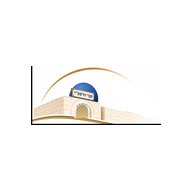
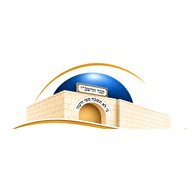
לוגו נייחא חדש, והפקת הסכם להדפסה מכרטיס ההסכם
Claude-Session: https://claude.ai/code/session_01KaZtAiNr4PLua2vKdjAdVr

Changed region(s): [[0.0625, 0.3125, 0.9062, 0.6875], [0.7188, 0.4062, 0.75, 0.4375]]

diff --git a/contract-text.js b/contract-text.js
@@ -1,0 +1,1 @@
+window.CONTRACT_LINES=["הסכם למתן שירותי שיווק וניהול הזמנות", "", "שנערך ונחתם ביום ______ בחודש __________ שנת ________", "", "", "בין:", "שם / חברה: __________________________________________", "ח.פ. / ת.ז.: __________________________________________", "כתובת: ______________________________________________", "טלפון: _______________________________________________", "(להלן: \"בעל הנכס\")", "מצד אחד;", "", "לבין:", "שם / חברה: __________________________________________", "ח.פ. / ת.ז.: __________________________________________", "כתובת: ______________________________________________", "טלפון: _______________________________________________", "(להלן: \"מנהל ההזמנות\")", "מצד שני;", "", "הואיל ובעל הנכס הינו בעל הזכויות ו/או בעל הרשאה כדין להשכיר את הנכס המתואר בנספח א' להסכם זה;", "והואיל ומנהל ההזמנות עוסק בשיווק נכסים, פרסום, איתור לקוחות, תיאום וניהול הזמנות לאירוח;", "והואיל והצדדים מעוניינים להסדיר את תנאי שיתוף הפעולה ביניהם, הכול כמפורט בהסכם זה להלן;", "לפיכך הוצהר, הוסכם והותנה בין הצדדים כדלקמן:", "", "1. מבוא ונספחים", "1.1. המבוא להסכם זה ונספחיו מהווים חלק בלתי נפרד ממנו.", "1.2. כותרות הסעיפים נועדו לנוחות בלבד ולא ישמשו לצורך פרשנות ההסכם.", "1.3. פרטי הנכס והתנאים המסחריים הספציפיים להתקשרות יפורטו בנספח א' להסכם זה.", "2. מהות ההתקשרות והשירותים", "2.1. בעל הנכס מתקשר עם מנהל ההזמנות לצורך שיווק הנכס, פרסומו, איתור לקוחות פוטנציאליים, קבלת פניות, תיאום הזמנות וטיפול בתהליך ההזמנה.", "2.2. מנהל ההזמנות יהיה רשאי לפרסם את הנכס באמצעי פרסום שונים, לרבות אתרי אינטרנט, רשתות חברתיות, רשימות תפוצה, פרסום ממומן, שיתופי פעולה וכל אמצעי שיווקי אחר לפי שיקול דעתו.", "2.3. מוסכם כי השיווק יהיה מקביל ולא בלעדי. בעל הנכס יהיה רשאי לפרסם את הנכס בעצמו, לקבל פניות ישירות מלקוחות ולבצע הזמנות באופן עצמאי, ובלבד שלא יסתייע בגורם שיווקי או מתווך אחר, כמפורט בסעיף 3 להלן.", "2.4. מנהל ההזמנות יהיה זכאי לעמלה רק בגין הזמנות של לקוחות שהגיעו באמצעות פעילות השיווק, הפרסום או ההפניה שלו, בהתאם להוראות הסכם זה.", "3. התחייבות לאי התקשרות עם משווקים אחרים", "3.1. במהלך תקופת ההסכם מתחייב בעל הנכס שלא להתקשר, במישרין או בעקיפין, עם משווק אחר, מתווך, סוכן הזמנות, משרד פרסום או כל גורם מסחרי אחר לצורך שיווק הנכס, פרסומו או הבאת לקוחות אליו.", "3.2. אין באמור כדי למנוע מבעל הנכס לשווק את הנכס בעצמו, לפרסם אותו באופן עצמאי או לקבל הזמנות ישירות מלקוחות.", "3.3. הפר בעל הנכס התחייבות זו, ישלם למנהל ההזמנות פיצוי מוסכם בסך של 5,000 ₪, ללא צורך בהוכחת נזק, וזאת בכפוף להוראות הדין ולסמכות בית המשפט להפחית פיצוי מוסכם ככל שימצא לנכון.", "3.4. הפיצוי המוסכם בסעיף זה חל אך ורק על הפרת ההתחייבות שלא להתקשר עם משווק אחר. אין בו כדי להטיל קנס על בעל הנכס בגין ביטול הזמנה, אשר יוסדר בהתאם לסעיף 9 להלן.", "3.5. אין באמור בסעיף זה כדי לגרוע מזכות מנהל ההזמנות לקבל עמלה בגין הזמנות של לקוחות שהגיעו באמצעותו, בהתאם להסכם זה.", "4. מערכת ההזמנות, זמינות ומחירים", "4.1. בעל הנכס מתחייב לעדכן באופן שוטף ומדויק את מערכת ההזמנות הממוחשבת בכל הנוגע לזמינות הנכס, מועדים תפוסים, הזמנות שבוצעו באופן עצמאי, חסימת תאריכים וכל שינוי אחר הרלוונטי לאפשרות ביצוע הזמנה.", "4.2. ככל שבעל הנכס מנהל יומן או לוח שנה נפרד, עליו לדאוג לסנכרון שוטף ומלא בינו לבין מערכת ההזמנות, ככל שהדבר אפשרי מבחינה טכנית.", "4.3. בעל הנכס מתחייב לעדכן ללא דיחוי כל הזמנה שבוצעה באופן עצמאי, כדי למנוע כפל הזמנות או התחייבות לאירוח במועד שבו הנכס אינו פנוי.", "4.4. בעל הנכס יזין במערכת מחירון עדכני ומלא, לרבות מחירים לפי עונות, חגים, חופשות, סופי שבוע ומועדים מיוחדים, וכן כל מגבלה או תנאי מיוחדים להזמנה.", "4.5. מחיר שלא עודכן במערכת ייחשב למחיר מאושר ומחייב. מנהל ההזמנות יהיה רשאי לאשר ולבצע הזמנה לפי המחיר המופיע במערכת, ללא צורך בקבלת אישור נוסף מבעל הנכס וללא מתן הודעה מוקדמת אליו.", "4.6. בעל הנכס מתחייב לכבד הזמנה שאושרה לפי המחיר והתנאים שהופיעו במערכת במועד ביצועה, ולא יהיה רשאי לדרוש תוספת תשלום בשל טענה שהמחיר לא עודכן או שהייתה כוונה לשנותו.", "4.7. מגבלה, תוספת מחיר או תנאי מיוחד שלא הוזנו במערכת מראש לא יחייבו את מנהל ההזמנות ביחס להזמנה שכבר אושרה, אלא אם הסכים לכך במפורש.", "4.8. בעל הנכס יישא באחריות לנזק או להוצאה שייגרמו עקב אי-עדכון המערכת, אי-סנכרון או מסירת מידע שגוי, ככל שהדבר נובע ממעשה או מחדל שבאחריותו.", "5. פרטי קשר וחיבור למרכזיית הטלפונים", "5.1. בעל הנכס ימסור למנהל ההזמנות מספר טלפון פעיל ועדכני, אשר יהיה ניתן להעברה ללקוחות לצורך יצירת קשר ישיר עם בעל הנכס בנוגע לנכס ולהזמנה.", "5.2. בעל הנכס מאשר למנהל ההזמנות להעביר ללקוחות את מספר הטלפון שמסר, לצורך טיפול בפניות הקשורות לנכס.", "5.3. בעל הנכס מתחייב להיות זמין במידה סבירה למענה לפניות לקוחות ולספק מידע נכון ומדויק בנוגע לנכס, לזמינותו ולתנאי האירוח.", "5.4. בעל הנכס מסכים לחבר את מספר הטלפון שמסר למערכת מרכזיית הטלפונים של מנהל ההזמנות, באופן שיאפשר ניתוב שיחות של לקוחות ישירות אליו, בהתאם להגדרות המערכת.", "5.5. בעל הנכס ישתף פעולה עם הליך החיבור למרכזייה ויעדכן את מנהל ההזמנות על כל שינוי במספר הטלפון או בפרטי ההתקשרות.", "5.6. עלויות מיוחדות, ככל שיהיו, הכרוכות בחיבור למרכזייה או בשימוש בה, יוסכמו מראש ובכתב בין הצדדים.", "6. התמורה למנהל ההזמנות", "6.1. בגין כל הזמנה של לקוח שהגיע באמצעות פעילות השיווק של מנהל ההזמנות, יהיה מנהל ההזמנות זכאי לעמלה בשיעור של  10% מסכום ההזמנה הכולל, כולל מע\"מ.", "6.2. העמלה תחושב מסכום ההזמנה שאושר מול הלקוח, לרבות הארכות או תוספות שאושרו כחלק מאותה הזמנה.", "6.3. הזמנה תיחשב כהזמנה שהגיעה באמצעות מנהל ההזמנות גם כאשר הלקוח פנה תחילה בעקבות פרסום או הפניה של מנהל ההזמנות, ובהמשך השלים את ההזמנה ישירות מול בעל הנכס.", "6.4. בעל הנכס מתחייב שלא לעקוף את מנהל ההזמנות ולא לבצע התקשרות ישירה עם לקוח שהופנה אליו על ידי מנהל ההזמנות במטרה להימנע מתשלום העמלה.", "6.5. בעל הנכס ימסור למנהל ההזמנות מידע סביר הדרוש לצורך זיהוי הזמנות שמקורן בפעילותו וחישוב העמלה המגיעה לו.", "7. אישור הזמנה ואופן התשלום", "7.1. עם אישור הזמנה שמקורה בפעילות מנהל ההזמנות, ישלם הלקוח מקדמה בשיעור של 10% מסכום ההזמנה ישירות למנהל ההזמנות או לחברה מטעמו, בהתאם להנחיות התשלום שיימסרו ללקוח.", "7.2. יתרת התשלום, בשיעור של 90% מסכום ההזמנה, תשולם ישירות לבעל הנכס, בהתאם למועדים ולתנאים שיימסרו ללקוח.", "7.3. הצדדים מסכימים כי המקדמה בשיעור 10% נועדה, ככלל, לשמש לתשלום עמלת מנהל ההזמנות בגין ההזמנה.", "7.4. בעל הנכס מתחייב לכבד כל הזמנה שאושרה בהתאם להסכם זה, למערכת ההזמנות ולתנאים שנמסרו ללקוח.", "7.5. מנהל ההזמנות יעביר לבעל הנכס את פרטי ההזמנה הרלוונטיים, לרבות מועדי האירוח, פרטי ההתקשרות עם הלקוח וסכום ההזמנה, ככל שהמידע מצוי בידיו ונדרש לצורך ביצוע ההזמנה.", "7.6. כל צד יהיה אחראי להנפקת מסמכים חשבונאיים ולקיום חובותיו לפי דין בגין הכספים שהוא מקבל, בהתאם למהות ההתקשרות ולמעמדו החוקי.", "8. ביטול הזמנה על ידי הלקוח", "8.1. מדיניות הביטולים שלהלן תחול בכפוף לכל זכות ביטול המוקנית ללקוח לפי דין. אין בהסכם זה כדי לגרוע מזכות קוגנטית של לקוח או להתנות עליה.", "8.2. במקרה שבו הלקוח מבטל את ההזמנה יותר משבעה ימים שאינם ימי מנוחה לפני מועד תחילת האירוח, לא ייגבה ממנו דמי ביטול בהתאם למדיניות הביטולים המסחרית של הצדדים, והמקדמה ששולמה תוחזר במלואה, בכפוף להוראות הדין.", "8.3. במקרה שבו הלקוח מבטל את ההזמנה בתוך שבעה ימים שאינם ימי מנוחה לפני מועד תחילת האירוח, וכאשר הלקוח אינו זכאי להחזר לפי דין ובהתאם לתנאי הביטול שנמסרו לו ואושרו מראש, ניתן יהיה להשאיר את המקדמה ששולמה, בשיעור של 10% מסכום ההזמנה המקורי, כדמי ביטול.", "8.4. במקרה שבו ניתן להשאיר את המקדמה כדמי ביטול בהתאם לדין ולתנאי ההזמנה, יחולק הסכום כך:", "5% מסכום ההזמנה המקורי יועברו לבעל הנכס.", "5% מסכום ההזמנה המקורי יישארו בידי מנהל ההזמנות.", "8.5. מובהר כי החלוקה הפנימית בין הצדדים תחול רק ביחס לסכומים שניתן לגבות או להותיר כדין. ככל שהדין מגביל את דמי הביטול או מחייב החזר מלא או חלקי ללקוח, יבוצע ההחזר בהתאם לדין, והצדדים לא יהיו רשאים לגבות מהלקוח סכום העולה על המותר.", "8.6. מנהל ההזמנות ובעל הנכס יפעלו בהתאם למדיניות הביטולים שנמסרה ללקוח לפני אישור ההזמנה, ובכפוף להוראות חוק הגנת הצרכן וכל דין רלוונטי.", "9. ביטול הזמנה על ידי בעל הנכס", "9.1. בעל הנכס מתחייב לכבד הזמנה שאושרה ולא לבטלה באופן חד-צדדי, למעט בנסיבות חריגות המצדיקות זאת ובהתאם להוראות הדין.", "9.2. ביטל בעל הנכס הזמנה שאושרה עקב נסיבות המצויות באחריותו, יהיה עליו לשאת בנזקים ובהוצאות שייגרמו עקב הביטול, לרבות החזרים ללקוח, הוצאות טיפול, הוצאות סבירות למציאת פתרון חלופי ואובדן העמלה הצפויה למנהל ההזמנות בגין אותה הזמנה.", "9.3. בעל הנכס ישפה את מנהל ההזמנות בגין כל הוצאה, תשלום או חיוב שיוטלו עליו עקב ביטול כאמור, ככל שנגרמו בשל מעשה או מחדל שבאחריות בעל הנכס.", "9.4. אין באמור בסעיף זה כדי להטיל על בעל הנכס פיצוי מוסכם בסך 5,000 ₪. הפיצוי המוסכם שבסעיף 3 חל אך ורק על הפרת ההתחייבות שלא להתקשר עם משווק אחר.", "9.5. במקרה של נסיבות שאינן בשליטת בעל הנכס ושאינן נובעות ממעשה או מחדל שלו, יפעלו הצדדים בתום לב למציאת פתרון הוגן, בכפוף להוראות הדין.", "10. התחייבויות ואחריות בעל הנכס", "10.1. בעל הנכס מצהיר כי הוא בעל הזכויות בנכס או בעל הרשאה חוקית להשכירו ולהתקשר בהסכם זה.", "10.2. בעל הנכס אחראי באופן מלא למצבו הפיזי והתחזוקתי של הנכס, לניקיונו, לתקינות המתקנים והציוד שבו ולבטיחותו.", "10.3. בעל הנכס מתחייב כי הנכס יהיה מוכן לאירוח במועדים שאושרו, בהתאם לתיאורו ולפרטים שפורסמו ללקוחות.", "10.4. בעל הנכס אחראי לקבלת כל רישיון, אישור או היתר הנדרשים לפי דין לצורך הפעלת הנכס והשכרתו.", "10.5. בעל הנכס מתחייב למסור למנהל ההזמנות מידע מלא, נכון ומדויק על הנכס, לרבות מספר חדרים, מיטות, מתקנים, שירותים, מגבלות, מחירים ותנאי האירוח.", "10.6. בעל הנכס יהיה אחראי לטיפול בתקלות, לתחזוקה ולמענה לבעיות המתעוררות במהלך שהות הלקוחות, אלא אם הוסכם אחרת בכתב.", "11. התחייבויות מנהל ההזמנות", "11.1. מנהל ההזמנות יפעל במאמץ סביר לשיווק הנכס, לפרסומו ולאיתור לקוחות פוטנציאליים.", "11.2. מנהל ההזמנות ינהל את הפניות וההזמנות שהגיעו באמצעות פעילותו, ויעביר לבעל הנכס את המידע הדרוש לצורך ביצוען.", "11.3. מנהל ההזמנות יעדכן את בעל הנכס בפרטי הזמנות שאושרו באמצעותו, לרבות פרטי האירוח והתשלומים הרלוונטיים.", "11.4. מובהר כי מנהל ההזמנות אינו מתחייב למספר מסוים של פניות, הזמנות או הכנסות, וכי השירות ניתן על בסיס מאמצי שיווק וניהול סבירים.", "12. אחריות כלפי לקוחות והיחסים בין הצדדים", "12.1. בעל הנכס הוא האחראי לאספקת שירותי האירוח בפועל, למסירת הנכס ללקוח ולמילוי התחייבויותיו כלפי הלקוח בנוגע למצב הנכס ולתנאי האירוח.", "12.2. מנהל ההזמנות מספק שירותי שיווק וניהול הזמנות ואינו אחראי לליקויים פיזיים בנכס, לתחזוקתו או לאספקת שירותי האירוח בפועל, ככל שאינם נובעים ממעשה או מחדל שבאחריותו.", "12.3. אין בהסכם זה כדי ליצור יחסי עובד-מעביד, שותפות, מיזם משותף או יחסי שליחות כלליים בין הצדדים, למעט ההרשאות המפורשות שניתנו למנהל ההזמנות בהסכם זה.", "12.4. כל צד יישא באחריות למעשיו, להתחייבויותיו ולחובותיו לפי דין.", "13. תקופת ההסכם וסיומו", "13.1. הסכם זה ייכנס לתוקף ביום חתימתו ויהיה בתוקף למשך ______ חודשים, עד ליום __________.", "13.2. הארכת ההסכם תיעשה בהסכמה בכתב בין הצדדים.", "13.3. כל צד יהיה רשאי להביא את ההסכם לסיומו בהודעה מוקדמת בכתב של 30 ימים לצד השני.", "13.4. סיום ההסכם לא יגרע מזכות מנהל ההזמנות לקבלת עמלה בגין הזמנות שאושרו במהלך תקופת ההסכם, אף אם מועד האירוח בפועל חל לאחר סיום ההסכם.", "13.5. לאחר סיום ההסכם לא יהיה מנהל ההזמנות זכאי לעמלה בגין הזמנות חדשות שיבוצעו לאחר מועד הסיום, לרבות הזמנות חוזרות של לקוחות שהגיעו בעבר באמצעותו, אלא אם הוסכם אחרת בכתב.", "13.6. סיום ההסכם לא יפטור מי מהצדדים מהתחייבויות או מחובות שנוצרו לפני מועד סיומו.", "14. סודיות ושמירה על מידע", "14.1. הצדדים מתחייבים לשמור בסודיות מידע עסקי, מסחרי ואישי שהגיע לידיהם במסגרת ההתקשרות, ולא להעבירו לצד שלישי אלא לצורך ביצוע ההסכם או כאשר קיימת חובה לעשות כן לפי דין.", "14.2. הצדדים יעשו שימוש בפרטי לקוחות ובמידע אישי רק לצורך טיפול בהזמנות וביצוע ההתקשרות, ובהתאם להוראות הדין.", "14.3. התחייבויות סעיף זה ימשיכו לחול גם לאחר סיום ההסכם.", "15. הוראות כלליות", "15.1. כל שינוי, תוספת או ויתור ביחס להסכם זה יהיו תקפים רק אם נערכו בכתב ונחתמו על ידי שני הצדדים.", "15.2. הימנעות של צד מעמידה על זכות מזכויותיו לא תיחשב כוויתור עליה.", "15.3. אם ייקבע כי הוראה מסוימת בהסכם אינה תקפה או אינה אכיפה, לא יהיה בכך כדי לפגוע בתוקפן של יתר הוראות ההסכם, ככל שניתן לקיימן בנפרד.", "15.4. הודעה לפי הסכם זה תימסר בכתב, לרבות באמצעות דואר אלקטרוני או הודעת WhatsApp למספרים ולכתובות שמסרו הצדדים, ותיחשב כאילו התקבלה בהתאם למועד מסירתה בפועל.", "15.5. על הסכם זה יחולו דיני מדינת ישראל.", "15.6. סמכות השיפוט המקומית בכל מחלוקת הנוגעת להסכם זה תהיה לבית המשפט המוסמך במחוז __________, בכפוף לכל הוראת דין מחייבת.", "16. חתימות הצדדים", "הצדדים מאשרים כי קראו את ההסכם, הבינו את תוכנו ואת משמעות התחייבויותיהם, וכי הם חותמים עליו מרצונם החופשי.", "בעל הנכס", "שם מלא: ______________________________", "חתימה: _______________________________", "תאריך: _______________________________", "מנהל ההזמנות", "שם מלא: ______________________________", "חתימה: _______________________________", "תאריך: _______________________________", "", "", "", "", "", "", "", "", "נספח א' – פרטי הנכס והתנאים המסחריים", "נספח זה מהווה חלק בלתי נפרד מהסכם למתן שירותי שיווק וניהול הזמנות.", "1. פרטי הנכס", "כתובת הנכס: __________________________________________", "שם הנכס / כינוי מסחרי: _________________________________", "מספר יחידות אירוח: ____________________________________", "מספר מיטות / מקומות לינה: ______________________________", "תיאור הנכס והמתקנים: __________________________________", "", "2. פרטי התמחור", "מחיר ללילה באמצע שבוע: __________________________ ₪", "מחיר ללילה בסוף שבוע: ___________________________ ₪", "מחיר בחגים ובמועדים מיוחדים: _____________________ ₪", "מחיר לעונות מיוחדות: _____________________________ ₪", "תוספות / שירותים נוספים: __________________________", "הערות ומגבלות להזמנה: ____________________________", "", "3. תנאי ההתקשרות", "עמלת מנהל ההזמנות: 10% כולל מע\"מ מסכום ההזמנה הכולל.", "מקדמה מהלקוח: 10% מסכום ההזמנה, בהתאם להוראות ההסכם והדין.", "יתרת התשלום לבעל הנכס: 90% מסכום ההזמנה, בהתאם לתנאי ההזמנה.", "תקופת ההסכם: ______ חודשים.", "הודעה מוקדמת לסיום ההסכם: 30 ימים.", "4. פרטי קשר", "טלפון בעל הנכס להעברה ללקוחות: _________________________", "טלפון נוסף: __________________________________________", "דוא\"ל: ______________________________________________", "האם נדרש חיבור למרכזיית הטלפונים: כן / לא", "הערות: ______________________________________________", "5. אישור הנספח", "הצדדים מאשרים כי הפרטים והתנאים המפורטים בנספח זה נמסרו ונבדקו על ידם, והם מחייבים כחלק בלתי נפרד מההסכם.", "חתימת בעל הנכס: ____________________ תאריך: __________", "חתימת מנהל ההזמנות: _________________ תאריך: __________"];

diff --git a/contract.html b/contract.html
@@ -1,0 +1,81 @@
+<!doctype html>
+<html lang="he" dir="rtl"><head><meta charset="utf-8"><meta name="viewport" content="width=device-width,initial-scale=1">
+<title>הסכם</title><meta name="robots" content="noindex">
+<style>
+body{margin:0;background:#eef2f3;font:15.5px/1.7 Arial,Heebo,sans-serif;color:#14233a}
+.sheet{max-width:780px;margin:16px auto;background:#fff;border-radius:12px;padding:30px 36px;box-shadow:0 8px 30px rgba(0,0,0,.12)}
+h1{font-size:24px;text-align:center;margin:0 0 14px}h2{font-size:17px;margin:18px 0 4px}p{margin:3px 0}
+.sub{padding-right:20px}.draft{background:#fff3d6;border:1px solid #e0b64a;border-radius:8px;padding:8px 12px;margin-bottom:14px;font-size:14px}
+.btns{max-width:780px;margin:0 auto 20px;text-align:center}button{font:inherit;padding:10px 22px;border-radius:10px;border:0;background:#0d3b66;color:#fff;cursor:pointer}
+.pb{page-break-before:always}#err{text-align:center;padding:60px 20px;color:#a33}
+@media print{body{background:#fff}.sheet{box-shadow:none;margin:0;max-width:none;padding:0}.btns,.draft{display:none}}
+</style></head><body>
+<div id="app"><div id="err">טוען…</div></div>
+<script src="https://cdn.jsdelivr.net/npm/@supabase/supabase-js@2.45.4/dist/umd/supabase.min.js"></script>
+<script src="config.js"></script><script src="contract-text.js"></script>
+<script>
+(function(){
+  var FINAL=false; /* לשנות ל-true רק אחרי שעורך הדין אישר את הנוסח */
+  function esc(s){return String(s==null?"":s).replace(/[&<>"']/g,function(c){return {"&":"&amp;","<":"&lt;",">":"&gt;",'"':"&quot;","'":"&#39;"}[c]})}
+  function d(s){var m=/^(\d{4})-(\d{2})-(\d{2})$/.exec(s||"");return m?m[3]+"/"+m[2]+"/"+m[1]:""}
+  var q=new URLSearchParams(location.search),owner=q.get("o")||"",app=document.getElementById("app");
+  var sb=window.supabase.createClient(MERON_CONFIG.url,MERON_CONFIG.anonKey);
+  function key(o){return "a_"+encodeURIComponent(o).replace(/%/g,"")}
+  function fill(l,v){var m=/^([^:_]+:)\s*_+.*$/.exec(l);return m&&v!=null&&v!==""?m[1]+" "+v:l}
+  sb.auth.getSession().then(function(s){
+    if(!s.data.session){app.innerHTML='<div id="err">צריך להיות מחובר למערכת כדי להפיק הסכם.</div>';return}
+    return Promise.all([
+      sb.from("docs").select("id,data").eq("col","agreements").eq("id",key(owner)),
+      sb.from("docs").select("id,data").eq("col","properties"),
+      sb.from("docs").select("id,data").eq("col","units"),
+      sb.from("docs").select("data").eq("col","settings").eq("id","main")
+    ]).then(function(r){
+      var g=(r[0].data&&r[0].data[0]&&r[0].data[0].data)||null;
+      if(!g){app.innerHTML='<div id="err">אין כרטיס הסכם לבעל הנכס הזה. מלא אותו במסך "הסכמי בעלי נכסים".</div>';return}
+      var hs=(r[1].data||[]).filter(function(h){return h.data.owner===owner}).map(function(h){return Object.assign({id:h.id},h.data)});
+      var us=(r[2].data||[]).map(function(u){return Object.assign({id:u.id},u.data)});
+      var st=(r[3].data&&r[3].data[0]&&r[3].data[0].data)||{};
+      var ownerPhone=(hs[0]&&hs[0].ownerPhone)||"";
+      var units=[];hs.forEach(function(h){var mine=us.filter(function(u){return u.houseId===h.id});(mine.length?mine:[h]).forEach(function(u){units.push({h:h,u:u})})});
+      var beds=units.reduce(function(a,x){return a+(+x.u.beds||0)},0);
+      var months=(g.start&&g.end)?Math.round((new Date(g.end)-new Date(g.start))/2629800000):"";
+      var L=window.CONTRACT_LINES.slice(),seenName=0,seenId=0,seenAddr=0,seenPh=0,out=[];
+      var today=new Date(),hd=today.getDate()+" בחודש "+today.toLocaleDateString("he-IL",{month:"long"})+" שנת "+today.getFullYear();
+      for(var i=0;i<L.length;i++){
+        var l=L[i];
+        if(/^שנערך ונחתם/.test(l)){l="שנערך ונחתם ביום "+hd;}
+        else if(/^שם \/ חברה:/.test(l)){seenName++;l=fill(l,seenName===1?owner:(st.company||"אישור ריאליטי"))}
+        else if(/^ח\.פ\. \/ ת\.ז\.:/.test(l)){seenId++;l=fill(l,seenId===1?g.idno:st.companyId)}
+        else if(/^כתובת:/.test(l)){seenAddr++;l=fill(l,seenAddr===1?g.addr:st.companyAddr)}
+        else if(/^טלפון:/.test(l)){seenPh++;l=fill(l,seenPh===1?ownerPhone:st.companyPhone)}
+        else if(/^13\.1\./.test(l)&&g.start&&g.end){l="13.1. הסכם זה ייכנס לתוקף ביום חתימתו ויהיה בתוקף למשך "+months+" חודשים, עד ליום "+d(g.end)+"."}
+        else if(/^13\.3\./.test(l)&&g.notice){l="13.3. כל צד יהיה רשאי להביא את ההסכם לסיומו בהודעה מוקדמת בכתב של "+g.notice+" ימים לצד השני."}
+        else if(/^6\.1\./.test(l)&&g.pct!=null){l="6.1. בגין כל הזמנה של לקוח שהגיע באמצעות פעילות השיווק של מנהל ההזמנות, יהיה מנהל ההזמנות זכאי לעמלה בשיעור של "+g.pct+"% מסכום ההזמנה הכולל"+(g.incVat===false?", לא כולל מע\"מ.":", כולל מע\"מ.")}
+        else if(/^כתובת הנכס:/.test(l)){l=fill(l,hs.map(function(h){return h.name+(h.area?" ("+h.area+")":"")}).join(", "))}
+        else if(/^שם הנכס/.test(l)){l=fill(l,hs.map(function(h){return h.name}).join(", "))}
+        else if(/^מספר יחידות אירוח:/.test(l)){l=fill(l,units.length)}
+        else if(/^מספר מיטות/.test(l)){l=fill(l,beds)}
+        else if(/^מחיר ללילה באמצע שבוע:/.test(l)){l=units.map(function(x){return (x.u.name||x.h.name)+": ₪"+(x.u.price||0)}).join(" · ")}
+        else if(/^מחיר ללילה בסוף שבוע:/.test(l)){l=units.map(function(x){return (x.u.name||x.h.name)+": חבילת שבת ₪"+(x.u.shabbatPrice||0)}).join(" · ")}
+        else if(/^עמלת מנהל ההזמנות: /.test(l)&&g.pct!=null){l="עמלת מנהל ההזמנות: "+g.pct+"%"+(g.incVat===false?" לא כולל מע\"מ":" כולל מע\"מ")+" מסכום ההזמנה הכולל."}
+        else if(/^תקופת ההסכם: _/.test(l)&&months!==""){l="תקופת ההסכם: "+months+" חודשים."}
+        else if(/^הודעה מוקדמת לסיום ההסכם:/.test(l)&&g.notice){l="הודעה מוקדמת לסיום ההסכם: "+g.notice+" ימים."}
+        else if(/^טלפון בעל הנכס להעברה ללקוחות:/.test(l)){l=fill(l,ownerPhone)}
+        else if(/^דוא"ל:/.test(l)){l=fill(l,g.email)}
+        else if(/^האם נדרש חיבור למרכזיית/.test(l)){l="האם נדרש חיבור למרכזיית הטלפונים: "+(g.pbx?"כן":"לא")}
+        out.push(l);
+      }
+      var html="";
+      out.forEach(function(l){
+        if(!l){return}
+        if(/^נספח א'/.test(l)){html+='<h1 class="pb">'+esc(l)+'</h1>';return}
+        if(l==="הסכם למתן שירותי שיווק וניהול הזמנות"){html+='<h1>'+esc(l)+'</h1>';return}
+        if(/^\d+\.\s/.test(l)){html+='<h2>'+esc(l)+'</h2>';return}
+        html+='<p'+(/^\d+\.\d+\./.test(l)?' class="sub"':'')+'>'+esc(l)+'</p>';
+      });
+      app.innerHTML=(FINAL?'':'<div class="sheet" style="padding:0;box-shadow:none;background:none;margin-bottom:0"><div class="draft">טיוטה: הנוסח טרם אושר על ידי עורך דין. ההדפסה לא כוללת הודעה זו.</div></div>')+'<div class="sheet">'+html+'</div><div class="btns"><button onclick="window.print()">הדפס או שמור כ-PDF</button></div>';
+      document.title="הסכם - "+owner;
+    });
+  });
+})();
+</script></body></html>

diff --git a/contract.js b/contract.js
@@ -95,7 +95,7 @@ function agrDraw(){
       +'<label style="flex-direction:row;align-items:center;gap:8px"><input type="checkbox" style="width:auto" id="ag_px_'+esc(key(n))+'"'+(g.pbx?' checked':'')+'> אישר חיבור הטלפון למרכזייה</label>'
       +'<label style="flex-direction:row;align-items:center;gap:8px"><input type="checkbox" style="width:auto" id="ag_sg_'+esc(key(n))+'"'+(g.signed?' checked':'')+'> החוזה נחתם</label>'
       +'<label>הערות<input id="ag_nz_'+esc(key(n))+'" value="'+esc(g.notes||"")+'"></label>'
-      +'<div class="row"><button class="btn primary sm" data-act="agSave" data-id="'+esc(n)+'">שמור</button><button class="btn sm" data-act="agApply" data-id="'+esc(n)+'">החל את אחוז העמלה על כל הבתים שלו</button></div></div>';
+      +'<div class="row"><button class="btn primary sm" data-act="agSave" data-id="'+esc(n)+'">שמור</button><a class="btn sm" target="_blank" rel="noopener" href="contract.html?o='+encodeURIComponent(n)+'">הפק הסכם להדפסה</a><button class="btn sm" data-act="agApply" data-id="'+esc(n)+'">החל את אחוז העמלה על כל הבתים שלו</button></div></div>';
    }).join(""):'<div class="empty">עדיין אין בעלי נכסים בבתים.</div>');
 }
 X.tabs.agr={mount:function(v){v.innerHTML='<div class="stack"><div class="panel stack" id="ag_box"></div></div>';agrDraw();agrLoad()},upd:function(){agrDraw()}};
